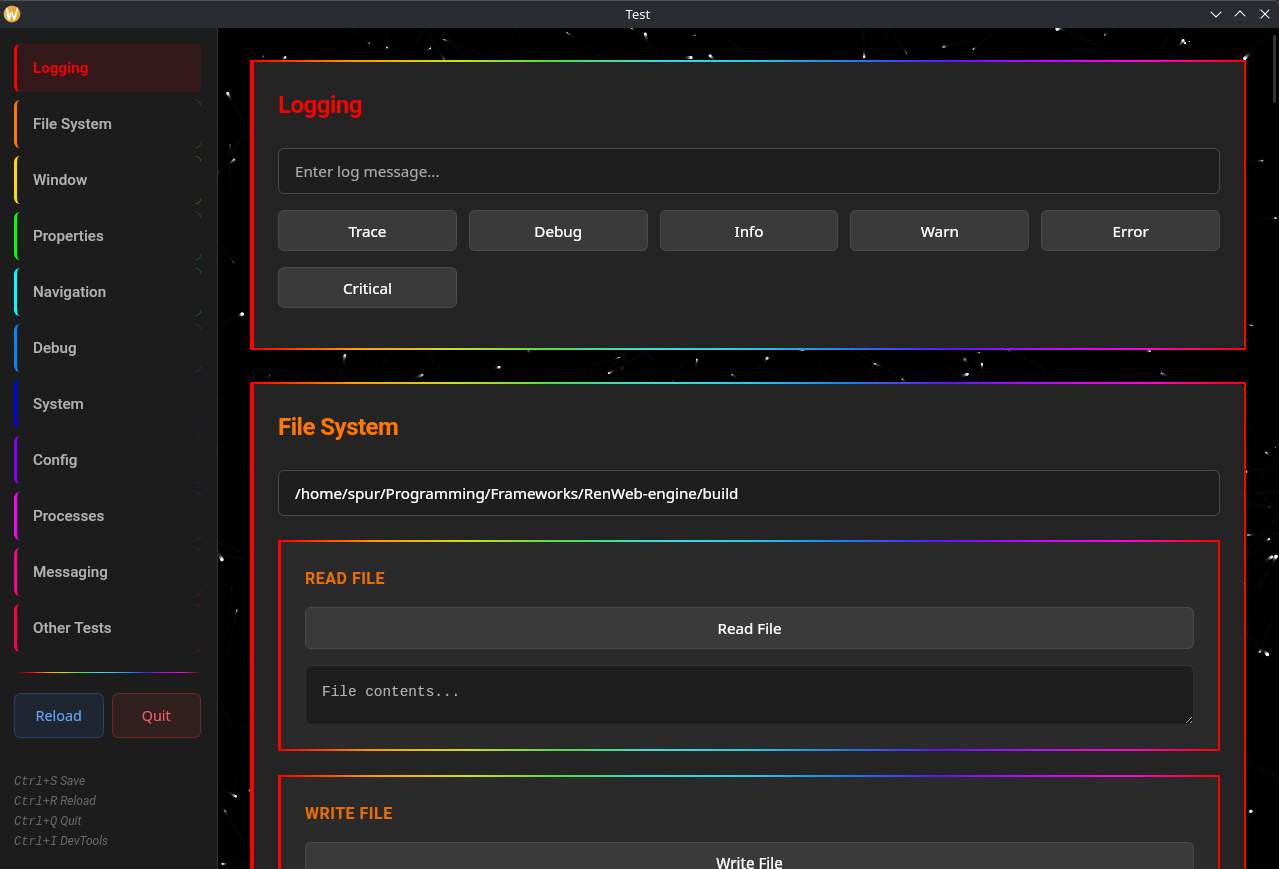
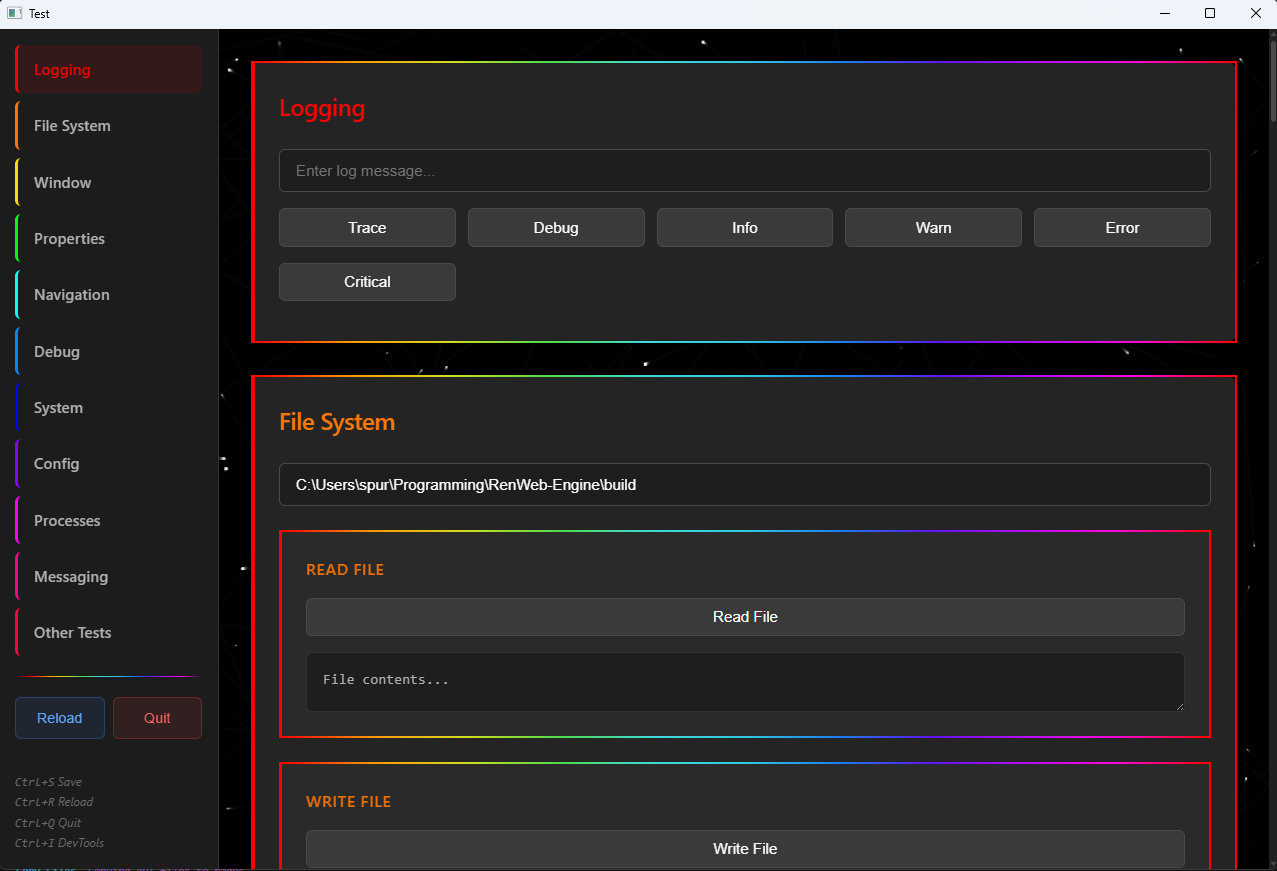
fix: windowing bug fixes, added tmp dir function, and fixed window hide/show issues on windows

diff --git a/web/api/index.ts b/web/api/index.ts
@@ -629,6 +629,17 @@ export namespace FS {
         { return decode(await BIND_get_application_dir_path()); }
     
     /**
+     * Gets a temporary directory path for the current session.
+     * The path is unique per process and can be used for storing temporary files.
+     * These files will be deleted once the applicaiton is closed.
+     * @param options - Options for getting the temporary directory path (default: { create: false })
+     * @param options.create - Whether to create the directory if it doesn't exist (default: false)
+     * @returns Promise that resolves to the tmp directory path
+     */
+    export async function getTmpDirPath(options: { create?: boolean } = { create: false }): Promise<string> 
+        { return decode(await BIND_get_tmp_dir_path(encode(options))); }
+    
+    /**
      * Downloads a file from a URI to a local path.
      * @param uri - URI to download from
      * @param path - Local path to save the file
@@ -1396,6 +1407,7 @@ declare const BIND_ls: (...args: any[]) => Promise<any>;
 declare const BIND_rename: (...args: any[]) => Promise<any>;
 declare const BIND_copy: (...args: any[]) => Promise<any>;
 declare const BIND_get_application_dir_path: (...args: any[]) => Promise<any>;
+declare const BIND_get_tmp_dir_path: (...args: any[]) => Promise<any>;
 declare const BIND_download_uri: (...args: any[]) => Promise<any>;
 
 declare const BIND_get_config: (...args: any[]) => Promise<any>;

diff --git a/src/window_functions.cpp b/src/window_functions.cpp
@@ -65,6 +65,15 @@ namespace WebView2Helper {
 }
 
 namespace WindowHelper {
+    static std::string WideToUtf8(const std::wstring& input) {
+        if (input.empty()) return std::string();
+        int size = WideCharToMultiByte(CP_UTF8, 0, input.data(), static_cast<int>(input.size()), nullptr, 0, nullptr, nullptr);
+        if (size <= 0) return std::string();
+        std::string output(static_cast<size_t>(size), '\0');
+        WideCharToMultiByte(CP_UTF8, 0, input.data(), static_cast<int>(input.size()), output.data(), size, nullptr, nullptr);
+        return output;
+    }
+
     static HWND GetHWND(RenWeb::App* app) {
         auto window_result = app->w->window();
         if (!window_result.has_value()) {
@@ -464,8 +473,8 @@ WF* WF::setGetSets() {
         #if defined(_WIN32)
             HWND hwnd = WindowHelper::GetHWND(this->app);
             if (hwnd) {
-                int physical_x = WindowHelper::LogicalToPhysical(hwnd, x);
-                int physical_y = WindowHelper::LogicalToPhysical(hwnd, y);
+                int physical_x = WindowHelper::LogicalToPhysical(hwnd, static_cast<int>(x));
+                int physical_y = WindowHelper::LogicalToPhysical(hwnd, static_cast<int>(y));
                 SetWindowPos(hwnd, NULL, physical_x, physical_y, 0, 0, SWP_NOSIZE | SWP_NOZORDER);
             }
         #elif defined(__APPLE__)
@@ -503,7 +512,17 @@ WF* WF::setGetSets() {
         #if defined(_WIN32)
             HWND hwnd = WindowHelper::GetHWND(this->app);
             if (hwnd) {
-                WindowHelper::SetStyleBit(hwnd, WS_CAPTION, has_titlebar);
+                DWORD style = WindowHelper::GetStyle(hwnd);
+                const DWORD titlebar_bits = WS_CAPTION | WS_SYSMENU | WS_THICKFRAME |
+                                            WS_MINIMIZEBOX | WS_MAXIMIZEBOX | WS_BORDER;
+                if (has_titlebar) {
+                    style |= titlebar_bits;
+                } else {
+                    style &= ~titlebar_bits;
+                }
+                SetWindowLongPtr(hwnd, GWL_STYLE, style);
+                SetWindowPos(hwnd, NULL, 0, 0, 0, 0,
+                    SWP_NOMOVE | SWP_NOSIZE | SWP_NOZORDER | SWP_FRAMECHANGED);
             }
         #elif defined(__APPLE__)
             NSWindow* nsWindow = (NSWindow*)this->app->w->window().value();
@@ -648,6 +667,11 @@ WF* WF::setGetSets() {
         std::function<void(const json::value&)>([this](const json::value& req){
             const bool minimize = this->getSingleParameter(req).as_bool();
         #if defined(_WIN32)
+            if (this->saved_states.find("window_visible") != this->saved_states.end() &&
+                this->saved_states["window_visible"].is_bool() &&
+                !this->saved_states["window_visible"].as_bool()) {
+                return;
+            }
             auto window_result = this->app->w->window();
             if (window_result.has_value()) {
                 HWND hwnd = static_cast<HWND>(window_result.value());
@@ -694,6 +718,11 @@ WF* WF::setGetSets() {
         std::function<void(const json::value&)>([this](const json::value& req){
             const bool maximize = this->getSingleParameter(req).as_bool();
         #if defined(_WIN32)
+            if (this->saved_states.find("window_visible") != this->saved_states.end() &&
+                this->saved_states["window_visible"].is_bool() &&
+                !this->saved_states["window_visible"].as_bool()) {
+                return;
+            }
             auto window_result = this->app->w->window();
             if (window_result.has_value()) {
                 HWND hwnd = static_cast<HWND>(window_result.value());
@@ -739,6 +768,11 @@ WF* WF::setGetSets() {
         std::function<void(const json::value&)>([this](const json::value& req){
             const bool fullscreen = this->getSingleParameter(req).as_bool();
         #if defined(_WIN32)
+            if (this->saved_states.find("window_visible") != this->saved_states.end() &&
+                this->saved_states["window_visible"].is_bool() &&
+                !this->saved_states["window_visible"].as_bool()) {
+                return;
+            }
             auto window_result = this->app->w->window();
             if (window_result.has_value()) {
                 HWND hwnd = static_cast<HWND>(window_result.value());
@@ -878,6 +912,7 @@ WF* WF::setWindowCallbacks() {
     }))->add("show",
         std::function<json::value(const json::value&)>([this](const json::value& req) -> json::value {
             const bool show_window = this->getSingleParameter(req).as_bool();
+            this->saved_states["window_visible"] = json::value(show_window);
         #if defined(_WIN32)
             auto window_result = this->app->w->window();
             if (window_result.has_value()) {
@@ -1605,6 +1640,21 @@ WF* WF::setFileSystemCallbacks() {
         std::function<json::value(const json::value&)>([](const json::value& req) -> json::value {
             (void)req;
             return json::value(Locate::currentDirectory().string());
+    }))->add("get_tmp_dir_path",
+        std::function<json::value(const json::value&)>([this](const json::value& req) -> json::value {
+            json::value param = this->getSingleParameter(req);
+            bool create = (param.is_object() && param.as_object().contains("create"))
+                ? param.as_object().at("create").as_bool()
+                : false;
+            const std::filesystem::path tmp_path = Locate::tempDirectory() / ".renweb" / "proc" / std::to_string(this->app->procm->getPid()) / ".session";
+            if (create) {
+                std::error_code ec;
+                std::filesystem::create_directories(tmp_path, ec);
+                if (ec) {
+                    this->logger->error("[function] Tried to create tmp directory but failed: " + ec.message());
+                }
+            }
+            return json::value(tmp_path.string());
     }))->add("download_uri",
         std::function<json::value(const json::value&)>([this](const json::value& req) -> json::value {
             const std::string uri = this->getSingleParameter(req).as_string().c_str();
@@ -1742,7 +1792,7 @@ WF* WF::setProcessCallbacks() {
     }))->add("dump_process",
         std::function<json::value(const json::value&)>([this](const json::value& req) -> json::value {
             json::array params = req.as_array();
-            Pid pid = params[0].as_int64();
+            Pid pid = static_cast<Pid>(params[0].as_int64());
             return this->app->procm->dumpProcess(pid);
     }))->add("dump_current_process",
         std::function<json::value(const json::value&)>([this](const json::value& req) -> json::value {
@@ -1758,13 +1808,13 @@ WF* WF::setProcessCallbacks() {
                 std::map<Pid, json::object> renweb_process_map;
                 for (const auto& renweb_proc : renweb_processes) {
                     if (renweb_proc.is_object() && renweb_proc.as_object().contains("pid") && renweb_proc.as_object().at("pid").is_int64()) {
-                        renweb_process_map[renweb_proc.as_object().at("pid").as_int64()] = renweb_proc.as_object();
+                        renweb_process_map[static_cast<Pid>(renweb_proc.as_object().at("pid").as_int64())] = renweb_proc.as_object();
                     }
                 }
                 json::array system_processes = this->app->procm->dumpSystemProcesses();
                 for (const auto& system_proc : system_processes) {
                     if (system_proc.is_object() && system_proc.as_object().contains("pid") && system_proc.as_object().at("pid").is_int64()) {
-                        Pid sys_pid = system_proc.as_object().at("pid").as_int64();
+                        Pid sys_pid = static_cast<Pid>(system_proc.as_object().at("pid").as_int64());
                         if (renweb_process_map.find(sys_pid) != renweb_process_map.end()) {
                             processes.push_back(renweb_process_map[sys_pid]);
                         } else {
@@ -1786,27 +1836,27 @@ WF* WF::setProcessCallbacks() {
     }))->add("kill_process",
         std::function<json::value(const json::value&)>([this](const json::value& req) -> json::value {
             json::array params = req.as_array();
-            Pid pid = params[0].as_int64();
-            int32_t signal = (params[1].is_int64()) ? params[1].as_int64() : SIGINT;
+            Pid pid = static_cast<Pid>(params[0].as_int64());
+            int32_t signal = (params[1].is_int64()) ? static_cast<int32_t>(params[1].as_int64()) : SIGINT;
             this->app->procm->kill(pid, signal);
             return json::value(nullptr);
     }))->add("detach_process",
         std::function<json::value(const json::value&)>([this](const json::value& req) -> json::value {
             json::array params = req.as_array();
-            Pid pid = params[0].as_int64();
+            Pid pid = static_cast<Pid>(params[0].as_int64());
             this->app->procm->detach(pid);
             return json::value(nullptr);
     }))->add("send_message",
         std::function<json::value(const json::value&)>([this](const json::value& req) -> json::value {
             json::array params = req.as_array();
-            Pid pid = params[0].as_int64();
+            Pid pid = static_cast<Pid>(params[0].as_int64());
             json::value message = params[1];
             this->app->procm->send(pid, message);
             return json::value(nullptr);
     }))->add("listen_to_output",
         std::function<json::value(const json::value&)>([this](const json::value& req) -> json::value {
             json::array params = req.as_array();
-            Pid pid = params[0].as_int64();
+            Pid pid = static_cast<Pid>(params[0].as_int64());
             int64_t lines = (params[1].as_int64() < 0) ? INT64_MAX : params[1].as_int64();
             bool tail = params[2].as_object().at("tail").as_bool();
             std::vector<std::string> output = this->app->procm->listen(pid, lines, tail);
@@ -1814,7 +1864,7 @@ WF* WF::setProcessCallbacks() {
     }))->add("wait",
         std::function<json::value(const json::value&)>([this](const json::value& req) -> json::value {
             json::array params = req.as_array();
-            Pid pid = params[0].as_int64();
+            Pid pid = static_cast<Pid>(params[0].as_int64());
             this->app->procm->wait(pid);
             return json::value(nullptr);
     }))->add("wait_all",
@@ -2369,7 +2419,7 @@ WF* WF::setInternalCallbacks() {
                             LPWSTR uri_wide;
                             args->get_Uri(&uri_wide);
                             std::wstring wide_url(uri_wide);
-                            std::string url(wide_url.begin(), wide_url.end());
+                            std::string url = WindowHelper::WideToUtf8(wide_url);
                             CoTaskMemFree(uri_wide);
                             
                             BOOL is_user_initiated;
@@ -2450,7 +2500,7 @@ WF* WF::setInternalCallbacks() {
                                     LPWSTR uri_wide;
                                     request->get_Uri(&uri_wide);
                                     std::wstring wide_url(uri_wide);
-                                    std::string url(wide_url.begin(), wide_url.end());
+                                    std::string url = WindowHelper::WideToUtf8(wide_url);
                                     CoTaskMemFree(uri_wide);
                                     
                                     // Allow webserver or wildcard mode

diff --git a/include/managers/process_manager.hpp b/include/managers/process_manager.hpp
@@ -99,7 +99,6 @@ namespace RenWeb {
             
             static std::filesystem::path getRegistryPath();
             static std::filesystem::path getProcessOutputDir(Pid pid);
-            static std::filesystem::path getTempBaseDir();
             static bool isProcessAlive(Pid pid);
             static json::array readRegistryFile();
             static bool writeRegistryFile(const json::array& entries);
@@ -174,7 +173,7 @@ using PM = RenWeb::ProcessManager;
 // ----------------------------------------------------------
 
 inline /*static*/ std::filesystem::path PM::getRegistryPath() {
-    std::filesystem::path temp_dir = getTempBaseDir();
+    std::filesystem::path temp_dir = Locate::tempDirectory();
     std::filesystem::path renweb_dir = temp_dir / ".renweb";
     
     if (!std::filesystem::exists(renweb_dir)) {
@@ -189,7 +188,7 @@ inline /*static*/ std::filesystem::path PM::getRegistryPath() {
 // ----------------------------------------------------------
 
 inline /*static*/ std::filesystem::path PM::getProcessOutputDir(Pid pid) {
-    std::filesystem::path temp_dir = getTempBaseDir();
+    std::filesystem::path temp_dir = Locate::tempDirectory();
     std::filesystem::path pid_dir = temp_dir / ".renweb" / "proc" / std::to_string(pid);
     
     std::error_code ec;
@@ -198,21 +197,6 @@ inline /*static*/ std::filesystem::path PM::getProcessOutputDir(Pid pid) {
     }
     
     return pid_dir;
-}
-
-// ----------------------------------------------------------
-// ----------------------------------------------------------
-// ----------------------------------------------------------
-
-inline /*static*/ std::filesystem::path PM::getTempBaseDir() {
-#if defined(_WIN32)
-    const char* temp = std::getenv("TEMP");
-    if (!temp) temp = std::getenv("TMP");
-    if (!temp) temp = "C:\\Windows\\Temp";
-    return std::filesystem::path(temp);
-#else
-    return std::filesystem::path("/tmp");
-#endif
 }
 
 // ----------------------------------------------------------
@@ -291,7 +275,7 @@ inline /*static*/ bool PM::writeRegistryFile(const json::array& entries) {
 
 inline /*static*/ void PM::cleanStaleEntries() {
  // Registry File
-    std::filesystem::path temp_dir = PM::getTempBaseDir();
+    std::filesystem::path temp_dir = Locate::tempDirectory();
     std::filesystem::path renweb_dir = temp_dir / ".renweb";
     
     json::array entries = readRegistryFile();
@@ -304,7 +288,7 @@ inline /*static*/ void PM::cleanStaleEntries() {
             const auto& obj = entry.as_object();
             if (!obj.contains("pid")) continue;
             
-            Pid pid = obj.at("pid").as_int64();
+            Pid pid = static_cast<Pid>(obj.at("pid").as_int64());
             if (isProcessAlive(pid)) {
                 valid_entries.push_back(entry);
             }
@@ -329,7 +313,7 @@ inline /*static*/ void PM::cleanStaleEntries() {
             }
             
             try {
-                Pid pid = std::stoll(dir_name);
+                Pid pid = static_cast<Pid>(std::stoll(dir_name));
                 if (!isProcessAlive(pid)) {
                     std::error_code ec;
                     std::filesystem::remove_all(entry.path(), ec);
@@ -649,7 +633,7 @@ inline json::object PM::dumpRenWebProcess(Pid pid) const {
         const auto& obj = entry.as_object();
         if (!obj.contains("pid") || !obj.contains("url")) continue;
         
-        Pid entry_pid = obj.at("pid").as_int64();
+        Pid entry_pid = static_cast<Pid>(obj.at("pid").as_int64());
         if (entry_pid != pid) continue;
         
         std::string url = obj.at("url").as_string().c_str();
@@ -784,7 +768,7 @@ inline json::array PM::dumpRenWebProcesses() const {
         const auto& obj = entry.as_object();
         if (!obj.contains("pid") || !obj.contains("url")) continue;
         
-        Pid pid = obj.at("pid").as_int64();
+        Pid pid = static_cast<Pid>(obj.at("pid").as_int64());
         std::string url = obj.at("url").as_string().c_str();
         
         if (pid == this->getPid()) {
@@ -1328,7 +1312,7 @@ inline void PM::unregisterProcess() const {
             const auto& obj = entry.as_object();
             if (!obj.contains("pid")) continue;
             
-            Pid pid = obj.at("pid").as_int64();
+            Pid pid = static_cast<Pid>(obj.at("pid").as_int64());
             if (pid != current_pid) {
                 remaining.push_back(entry);
             }

diff --git a/include/locate.hpp b/include/locate.hpp
@@ -10,6 +10,7 @@
 
 #include <stdexcept>
 #include <filesystem>
+#include <cstdlib>
 
 extern "C" {
 
@@ -87,6 +88,25 @@ namespace RenWeb {
         }
         inline std::filesystem::path currentDirectory() {
             return executable().parent_path();
+        }
+        inline std::filesystem::path tempDirectory() {
+        #if defined(_WIN32)
+          char* temp = nullptr;
+          size_t len = 0;
+          if (_dupenv_s(&temp, &len, "TEMP") == 0 && temp) {
+            std::filesystem::path path(temp);
+            std::free(temp);
+            return path;
+          }
+          if (_dupenv_s(&temp, &len, "TMP") == 0 && temp) {
+            std::filesystem::path path(temp);
+            std::free(temp);
+            return path;
+          }
+          return std::filesystem::path("C:\\Windows\\Temp");
+        #else
+          return std::filesystem::path("/tmp");
+        #endif
         }
     }
 }

diff --git a/src/web_server.cpp b/src/web_server.cpp
@@ -340,7 +340,9 @@ void WebServer::setMethodCallbacks() {
                 "    await window.onServerMessage(decoded);"
                 "  }"
                 "})();";
-            this->app->w->eval(callback_js);
+            this->app->w->dispatch([this, callback_js]() {
+                this->app->w->eval(callback_js);
+            });
         } else {
             this->sendStatus(req, res, httplib::StatusCode::MethodNotAllowed_405, "POST cannot be used in this context: " + req.target);
         }

diff --git a/src/app.cpp b/src/app.cpp
@@ -142,10 +142,7 @@ void App::run() {
     
     this->procm->registerProcess();
     
-    this->fns->setup();
-
     this->w->dispatch([this](){
-        this->fns->setup();
         json::object current_state = this->config->getJson().is_object() 
             ? this->config->getJson().as_object() : json::object{};
         if (current_state["merge_defaults"] == json::value(true)) {
